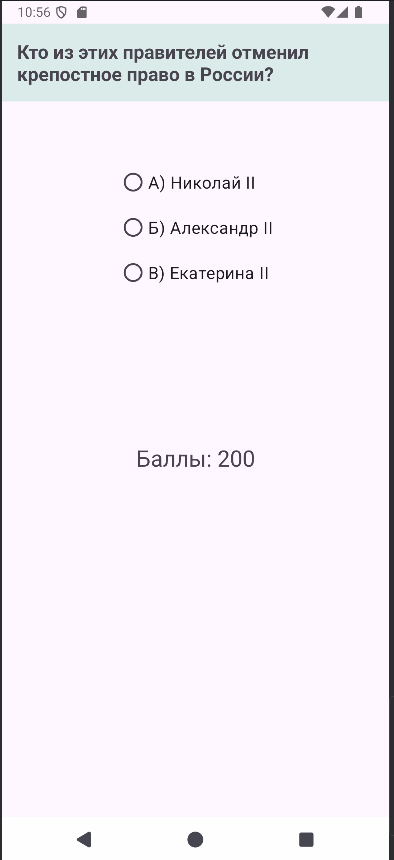
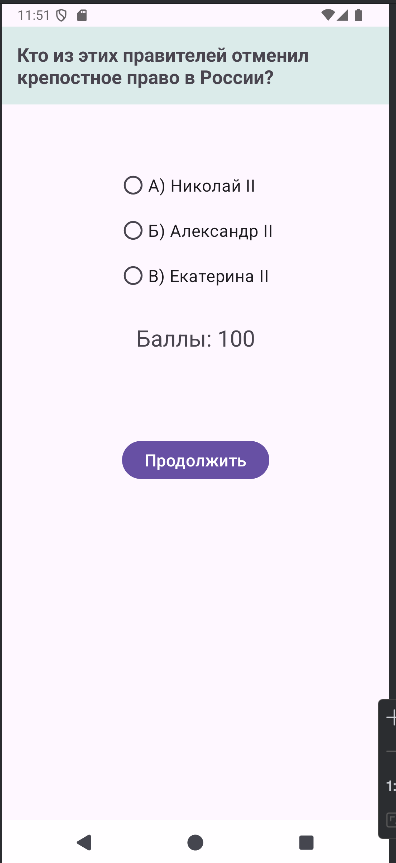
Викторина "Я историк"

diff --git a/RadioButton_HW/app/src/main/java/com/example/radiobutton_hw/MainActivity3.kt b/RadioButton_HW/app/src/main/java/com/example/radiobutton_hw/MainActivity3.kt
@@ -3,6 +3,7 @@ package com.example.radiobutton_hw
 import android.annotation.SuppressLint
 import android.content.Intent
 import android.os.Bundle
+import android.widget.Button
 import android.widget.RadioButton
 import android.widget.RadioGroup
 import android.widget.TextView
@@ -16,7 +17,8 @@ class MainActivity3 : AppCompatActivity() {
     private lateinit var scoreTV: TextView
     private lateinit var radioGroup3: RadioGroup
     private lateinit var wowRB: RadioButton
-
+    private lateinit var nextBTN: Button
+    private lateinit var rightAnswer: String
 
     @SuppressLint("SetTextI18n")
     override fun onCreate(savedInstanceState: Bundle?) {
@@ -28,22 +30,27 @@ class MainActivity3 : AppCompatActivity() {
             v.setPadding(systemBars.left, systemBars.top, systemBars.right, systemBars.bottom)
             insets
         }
-
         radioGroup3 = findViewById(R.id.radioGroup3)
         scoreTV = findViewById(R.id.scoreTV)
         wowRB = findViewById(R.id.wowRB)
-        var score = intent.getIntExtra("SCORE", 0)
+        nextBTN = findViewById(R.id.nextBTN)
 
+        var score = intent.getIntExtra("SCORE", 0)
         scoreTV.text = getString(R.string.score, score)
+        rightAnswer = getString(R.string.ans2Q2)
 
         val intent = Intent(this, MainActivity4::class.java)
 
-
-        radioGroup3.setOnCheckedChangeListener { group, checkId ->
-            val radio: RadioButton = findViewById(checkId)
-            if ( radio == wowRB){
-                score += 100
+        radioGroup3.setOnCheckedChangeListener { _, checkedID ->
+            if (checkedID != -1) {
+                val selectedRadioButton = findViewById<RadioButton>(checkedID)
+                val selectedOption = selectedRadioButton.text.toString()
+                if (selectedOption == rightAnswer) {
+                    score += 100
+                }
             }
+        }
+        nextBTN.setOnClickListener {
             intent.putExtra("SCORE", score)
             startActivity(intent)
             finish()

diff --git a/RadioButton_HW/app/src/main/java/com/example/radiobutton_hw/MainActivity6.kt b/RadioButton_HW/app/src/main/java/com/example/radiobutton_hw/MainActivity6.kt
@@ -3,6 +3,7 @@ package com.example.radiobutton_hw
 import android.annotation.SuppressLint
 import android.content.Intent
 import android.os.Bundle
+import android.widget.Button
 import android.widget.RadioButton
 import android.widget.RadioGroup
 import android.widget.TextView
@@ -15,6 +16,8 @@ class MainActivity6 : AppCompatActivity() {
     private lateinit var  radioGroup6: RadioGroup
     private lateinit var stalinRB: RadioButton
     private lateinit var scoreInAct6TV: TextView
+    private lateinit var nextBTN: Button
+    private lateinit var rightAnswer: String
 
     @SuppressLint("SetTextI18n")
     override fun onCreate(savedInstanceState: Bundle?) {
@@ -29,17 +32,24 @@ class MainActivity6 : AppCompatActivity() {
         radioGroup6 = findViewById(R.id.radioGroup6)
         stalinRB = findViewById(R.id.stalinRB)
         scoreInAct6TV =findViewById(R.id.scoreInAct6TV)
+        nextBTN = findViewById(R.id.nextBTN)
+        rightAnswer = getString(R.string.ans1Q5)
 
         var score = intent.getIntExtra("SCORE", 0)
         scoreInAct6TV.text = getString(R.string.score, score)
 
         val intent = Intent(this, ResultActivity::class.java)
 
-        radioGroup6.setOnCheckedChangeListener{group, checkID ->
-            val radio: RadioButton = findViewById(checkID)
-            if ( radio == stalinRB ){
-                score += 100
+        radioGroup6.setOnCheckedChangeListener { _, checkedID ->
+            if (checkedID != -1) {
+                val selectedRadioButton = findViewById<RadioButton>(checkedID)
+                val selectedOption = selectedRadioButton.text.toString()
+                if (selectedOption == rightAnswer) {
+                    score += 100
+                }
             }
+        }
+        nextBTN.setOnClickListener {
             intent.putExtra("SCORE", score)
             startActivity(intent)
             finish()

diff --git a/RadioButton_HW/app/src/main/java/com/example/radiobutton_hw/MainActivity5.kt b/RadioButton_HW/app/src/main/java/com/example/radiobutton_hw/MainActivity5.kt
@@ -3,6 +3,7 @@ package com.example.radiobutton_hw
 import android.annotation.SuppressLint
 import android.content.Intent
 import android.os.Bundle
+import android.widget.Button
 import android.widget.RadioButton
 import android.widget.RadioGroup
 import android.widget.TextView
@@ -16,6 +17,8 @@ class MainActivity5 : AppCompatActivity() {
     private lateinit var radioGroup5: RadioGroup
     private lateinit var kievRB: RadioButton
     private lateinit var scoreInAct5TV: TextView
+    private lateinit var nextBTN: Button
+    private lateinit var rightAnswer: String
 
     @SuppressLint("SetTextI18n")
     override fun onCreate(savedInstanceState: Bundle?) {
@@ -31,17 +34,24 @@ class MainActivity5 : AppCompatActivity() {
         radioGroup5 = findViewById(R.id.radioGroup5)
         kievRB = findViewById(R.id.kievRB)
         scoreInAct5TV = findViewById(R.id.scoreInAct5TV)
+        nextBTN = findViewById(R.id.nextBTN)
+        rightAnswer = getString(R.string.ans2Q4)
 
         var score = intent.getIntExtra("SCORE", 0)
         scoreInAct5TV.text = getString(R.string.score, score)
 
         val intent = Intent(this, MainActivity6::class.java)
 
-        radioGroup5.setOnCheckedChangeListener{group, checkID ->
-            val radio: RadioButton = findViewById(checkID)
-            if (radio == kievRB){
-                score += 100
+        radioGroup5.setOnCheckedChangeListener { _, checkedID ->
+            if (checkedID != -1) {
+                val selectedRadioButton = findViewById<RadioButton>(checkedID)
+                val selectedOption = selectedRadioButton.text.toString()
+                if (selectedOption == rightAnswer) {
+                    score += 100
+                }
             }
+        }
+        nextBTN.setOnClickListener {
             intent.putExtra("SCORE", score)
             startActivity(intent)
             finish()

diff --git a/RadioButton_HW/app/src/main/java/com/example/radiobutton_hw/MainActivity4.kt b/RadioButton_HW/app/src/main/java/com/example/radiobutton_hw/MainActivity4.kt
@@ -3,6 +3,7 @@ package com.example.radiobutton_hw
 import android.annotation.SuppressLint
 import android.content.Intent
 import android.os.Bundle
+import android.widget.Button
 import android.widget.RadioButton
 import android.widget.RadioGroup
 import android.widget.TextView
@@ -15,6 +16,8 @@ class MainActivity4 : AppCompatActivity() {
     private lateinit var scoreInAct4TV: TextView
     private lateinit var radioGroup4: RadioGroup
     private lateinit var alexRB: RadioButton
+    private lateinit var nextBTN: Button
+    private lateinit var rightAnswer: String
 
     @SuppressLint("SetTextI18n")
 
@@ -32,17 +35,24 @@ class MainActivity4 : AppCompatActivity() {
         scoreInAct4TV = findViewById(R.id.scoreInAct4TV)
         radioGroup4 = findViewById(R.id.radioGroup4)
         alexRB = findViewById(R.id.alexRB)
+        nextBTN = findViewById(R.id.nextBTN)
+        rightAnswer = getString(R.string.ans2Q3)
 
         var score = intent.getIntExtra("SCORE", 0)
         scoreInAct4TV.text =getString(R.string.score, score)
 
         val intent = Intent(this, MainActivity5::class.java)
 
-        radioGroup4.setOnCheckedChangeListener { group, checkId ->
-            val radio: RadioButton = findViewById(checkId)
-            if (radio == alexRB) {
-                score += 100
+        radioGroup4.setOnCheckedChangeListener { _, checkedID ->
+            if (checkedID != -1) {
+                val selectedRadioButton = findViewById<RadioButton>(checkedID)
+                val selectedOption = selectedRadioButton.text.toString()
+                if (selectedOption == rightAnswer) {
+                    score += 100
+                }
             }
+        }
+        nextBTN.setOnClickListener {
             intent.putExtra("SCORE", score)
             startActivity(intent)
             finish()

diff --git a/RadioButton_HW/app/src/main/java/com/example/radiobutton_hw/MainActivity2.kt b/RadioButton_HW/app/src/main/java/com/example/radiobutton_hw/MainActivity2.kt
@@ -2,6 +2,7 @@ package com.example.radiobutton_hw
 
 import android.content.Intent
 import android.os.Bundle
+import android.widget.Button
 import android.widget.RadioButton
 import android.widget.RadioGroup
 import androidx.activity.enableEdgeToEdge
@@ -13,7 +14,10 @@ class MainActivity2 : AppCompatActivity() {
 
     private lateinit var radioGroup: RadioGroup
     private lateinit var groznyRB: RadioButton
+    private lateinit var nextBTN: Button
+    private lateinit var rightAnswer: String
     private var score = 0
+
     override fun onCreate(savedInstanceState: Bundle?) {
         super.onCreate(savedInstanceState)
         enableEdgeToEdge()
@@ -25,16 +29,27 @@ class MainActivity2 : AppCompatActivity() {
         }
         radioGroup = findViewById(R.id.radioGroup)
         groznyRB = findViewById(R.id.groznyRB)
+        nextBTN = findViewById(R.id.nextBTN)
+        rightAnswer = getString(R.string.ans1Q1)
+
         val intent = Intent(this, MainActivity3::class.java)
 
-        radioGroup.setOnCheckedChangeListener { group, checkedID ->
-            val radio: RadioButton = findViewById(checkedID)
-            if (radio == groznyRB) {
-                score += 100
+        radioGroup.setOnCheckedChangeListener { _, checkedID ->
+
+            if (checkedID != -1) {
+                val selectedRadioButton = findViewById<RadioButton>(checkedID)
+                val selectedOption = selectedRadioButton.text.toString()
+
+                if (selectedOption == rightAnswer) {
+                    score += 100
+                }
             }
+        }
+        nextBTN.setOnClickListener {
             intent.putExtra("SCORE", score)
             startActivity(intent)
             finish()
         }
+
     }
 }

diff --git a/ListView_Ver_2/app/src/main/java/com/example/listview/MainActivity.kt b/ListView_Ver_2/app/src/main/java/com/example/listview/MainActivity.kt
@@ -42,6 +42,7 @@ class MainActivity : AppCompatActivity() {
         listView = findViewById(R.id.listView)
         toolbar = findViewById(R.id.toolbar)
         setSupportActionBar(toolbar)
+
         adapter = ArrayAdapter(this, android.R.layout.simple_list_item_1, nameList)
         listView.adapter = adapter
 
